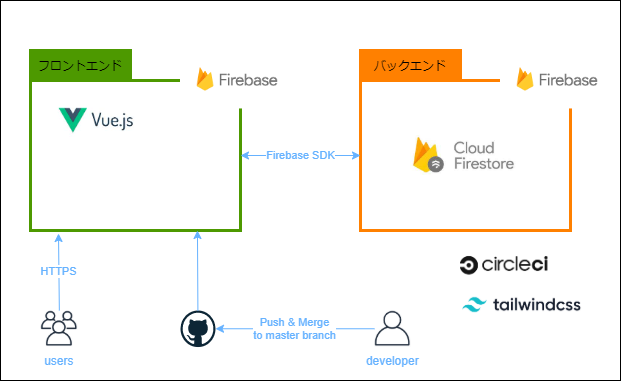
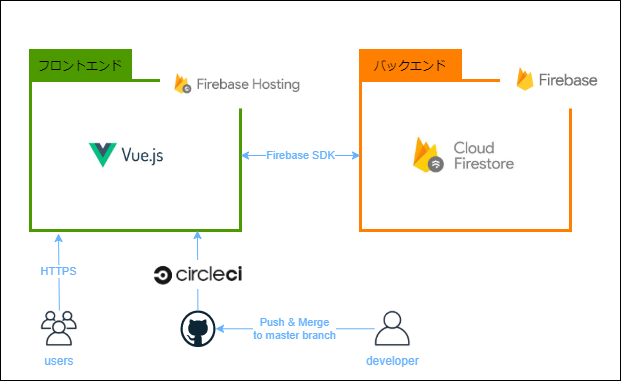
ch top

diff --git a/README.md b/README.md
@@ -1,8 +1,14 @@
 # wedding_quiz
 
-![インフラ構成図](https://github.com/KamiHitoe/wedding_quiz/blob/master/infra.png)
+## アプリ概要
+結婚式用のクイズアプリをVue.js x Firebaseで作成しました。
+![概要](https://github.com/KamiHitoe/img/blob/master/wedding_quiz/01_main.png)
+
 
 ## 利用技術
+
+
+![インフラ構成図](https://github.com/KamiHitoe/wedding_quiz/blob/master/infra.png)
 - frontend
     - Vue.js
     - Bootstrap or tailwindcss
